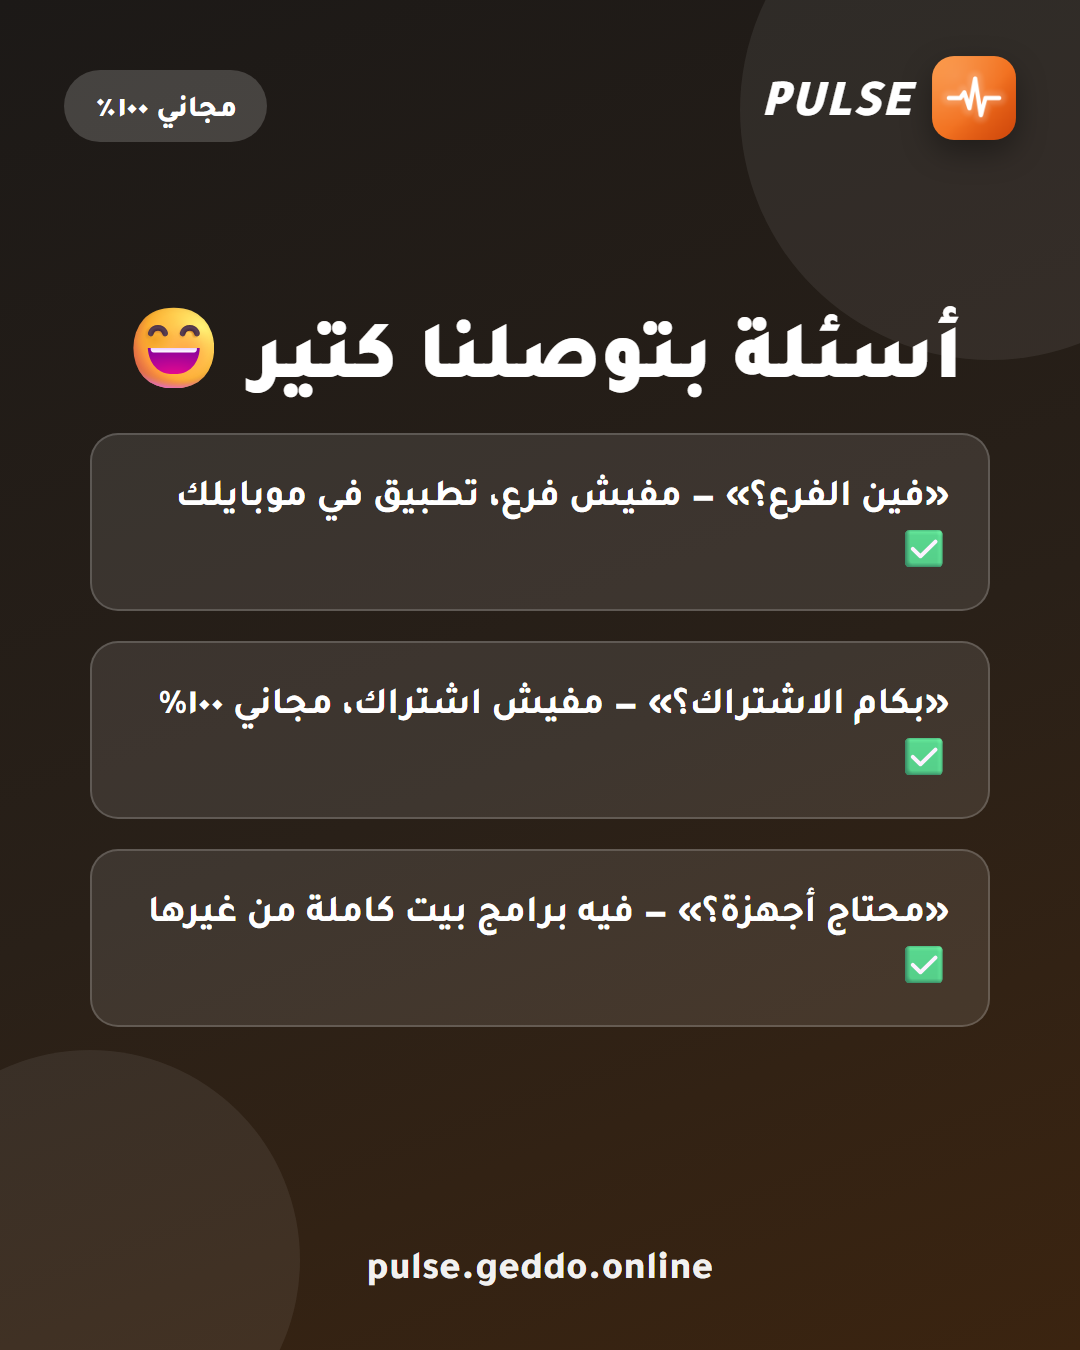
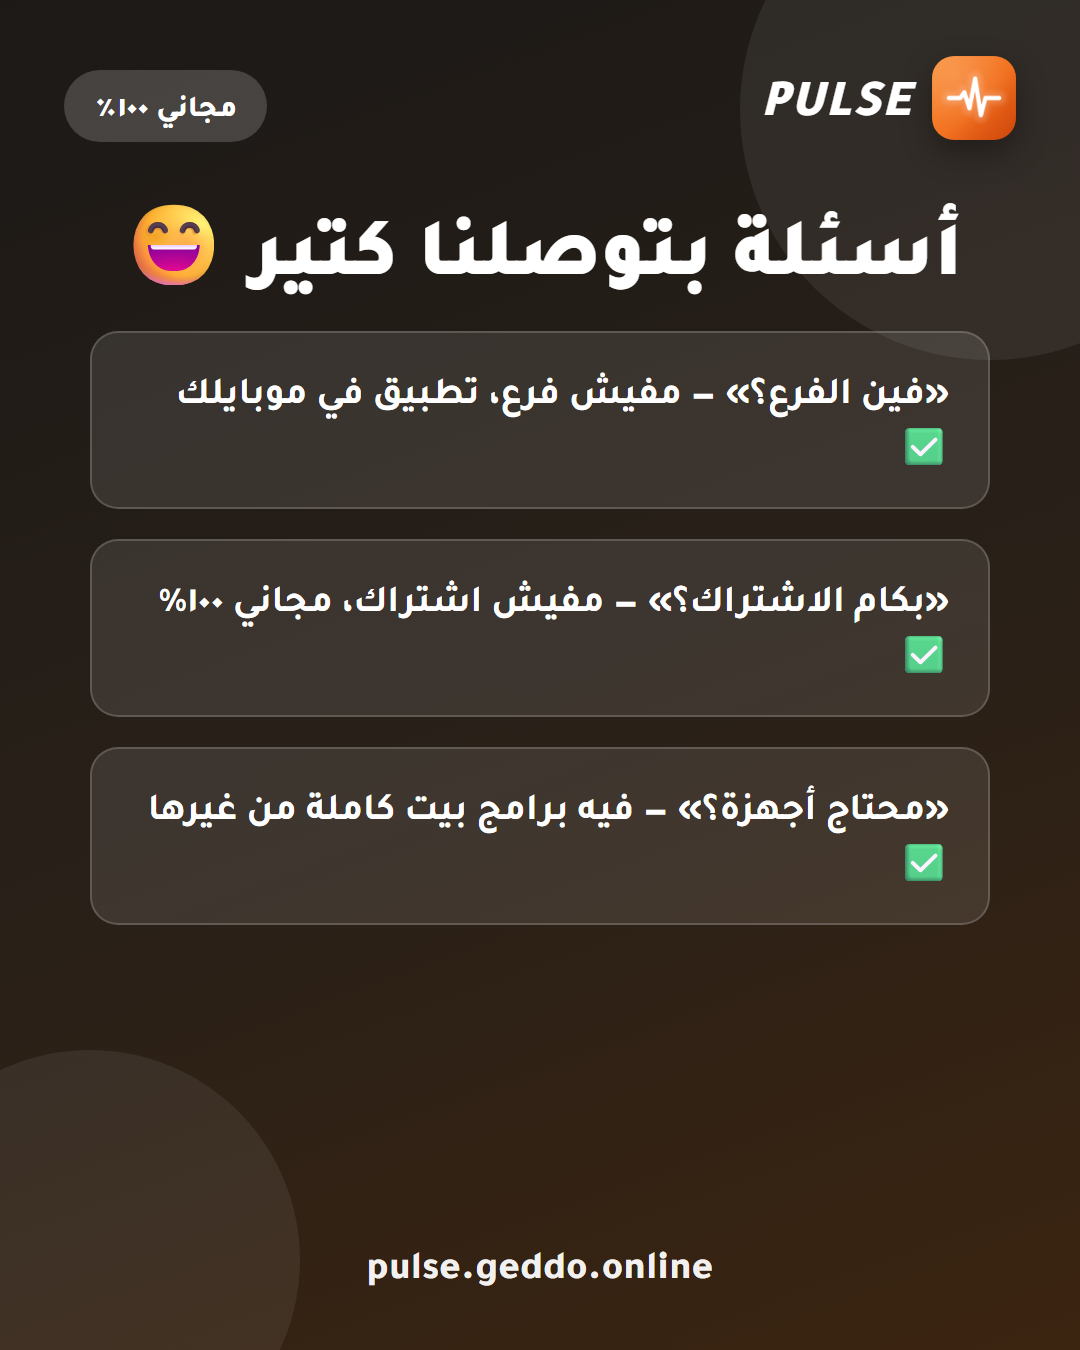
Invite-your-buddy quest + notifications how-to card + one-tap pin
- First-week invite quest: new users (<14d) with zero referrals get
  "Invite a friend" pinned as their first daily-quest slot; tapping it
  opens WhatsApp with their personal referral link. Reward chain was
  already there (freeze both sides + first_referral badge) — the badge
  now lands at referral time instead of waiting for the referrer's
  next workout.
- Getting Started gains step 5: invite via WhatsApp (referral was
  buried in Settings), steps refactored to action handlers.
- marketing-cards/36-enable-notifications.png: 4-step bilingual-arabic
  how-to for enabling push (iPhone A2HS flow), QA card template fixed
  (top-aligned so rows can't collide with the header/footer).
- Admin Moderation feed rows get a one-tap 📌 Pin (7 days) so the card
  post can be pinned without hunting post IDs.

Changed region(s): [[0.1222, 0.1556, 0.9167, 0.7467], [0.1528, 0.3422, 0.6417, 0.4044]]

diff --git a/apps/web/src/components/GettingStarted.tsx b/apps/web/src/components/GettingStarted.tsx
@@ -3,7 +3,8 @@ import { useNavigate } from 'react-router-dom';
 import { useTranslation } from 'react-i18next';
 import { useQuery } from '@tanstack/react-query';
 import { motion } from 'framer-motion';
-import { Check, ChevronRight, ClipboardList, Dumbbell, Trophy, HeartHandshake, X, HelpCircle } from 'lucide-react';
+import { Check, ChevronRight, ClipboardList, Dumbbell, Trophy, HeartHandshake, X, HelpCircle, Gift } from 'lucide-react';
+import { waOpen } from './WaShare';
 import { api } from '../lib/api';
 
 const spring = { type: 'spring', stiffness: 260, damping: 24 } as const;
@@ -20,17 +21,27 @@ export default function GettingStarted() {
   const navigate = useNavigate();
   const [dismissed, setDismissed] = useState(() => localStorage.getItem(DISMISS_KEY) === '1');
 
-  // All four signals are queries other cards already keep warm.
+  // All signals are queries other cards already keep warm.
   const { data: plan } = useQuery({ queryKey: ['assessment'], queryFn: () => api.get('/api/assessment'), staleTime: 5 * 60_000 });
   const { data: progress } = useQuery({ queryKey: ['progress'], queryFn: () => api.get('/api/tracker/progress') });
   const { data: buddies } = useQuery({ queryKey: ['buddies'], queryFn: () => api.get('/api/social/buddies') });
   const { data: challenges } = useQuery({ queryKey: ['challenges'], queryFn: () => api.get('/api/gamification/challenges'), staleTime: 60_000 });
+  const { data: referral } = useQuery({ queryKey: ['referral'], queryFn: () => api.get('/api/me/referral'), staleTime: Infinity });
+
+  // Invite goes straight to WhatsApp with the personal link — referral was
+  // buried in Settings, and friends-who-train-together is the stickiest
+  // configuration this app has.
+  const inviteNow = () => {
+    if (!referral?.link) return navigate('/info');
+    waOpen(t('gs.inviteMsg', { link: referral.link }));
+  };
 
   const steps = [
-    { key: 'plan', icon: ClipboardList, done: plan?.hasPlan === true, to: '/my-plan', label: t('gs.plan') },
-    { key: 'workout', icon: Dumbbell, done: (progress?.totalCompletions ?? 0) > 0, to: '/workout', label: t('gs.workout') },
-    { key: 'challenge', icon: Trophy, done: Array.isArray(challenges) && challenges.some((c: any) => c.joined), to: '/achievements', label: t('gs.challenge') },
-    { key: 'buddy', icon: HeartHandshake, done: Array.isArray(buddies) && buddies.length > 0, to: '/people', label: t('gs.buddy') },
+    { key: 'plan', icon: ClipboardList, done: plan?.hasPlan === true, action: () => navigate('/my-plan'), label: t('gs.plan') },
+    { key: 'workout', icon: Dumbbell, done: (progress?.totalCompletions ?? 0) > 0, action: () => navigate('/workout'), label: t('gs.workout') },
+    { key: 'challenge', icon: Trophy, done: Array.isArray(challenges) && challenges.some((c: any) => c.joined), action: () => navigate('/achievements'), label: t('gs.challenge') },
+    { key: 'buddy', icon: HeartHandshake, done: Array.isArray(buddies) && buddies.length > 0, action: () => navigate('/people'), label: t('gs.buddy') },
+    { key: 'invite', icon: Gift, done: (referral?.invited ?? 0) > 0, action: inviteNow, label: t('gs.invite') },
   ];
   const doneCount = steps.filter((s) => s.done).length;
 
@@ -65,10 +76,10 @@ export default function GettingStarted() {
       </div>
 
       <div className="px-2 pb-2">
-        {steps.map(({ key, icon: Icon, done, to, label }, i) => (
+        {steps.map(({ key, icon: Icon, done, action, label }, i) => (
           <button
             key={key}
-            onClick={() => !done && navigate(to)}
+            onClick={() => !done && action()}
             disabled={done}
             className="flex w-full items-center gap-3 rounded-xl px-2 py-2.5 text-start transition active:bg-gray-50"
           >

diff --git a/apps/web/src/components/DailyQuests.tsx b/apps/web/src/components/DailyQuests.tsx
@@ -6,6 +6,7 @@ import { CurlAnim } from './TrainingAnim';
 import { WaterAnim, MealAnim, FlameAnim } from './MicroAnims';
 import { api } from '../lib/api';
 import { toast } from '../lib/toast';
+import { waOpen } from './WaShare';
 import { celebrateFeedback } from '../lib/haptics';
 
 const spring = { type: 'spring', stiffness: 260, damping: 24 } as const;
@@ -50,6 +51,9 @@ export default function DailyQuests() {
     queryFn: () => api.get('/api/daily/quests'),
     staleTime: 60_000,
   });
+
+  const { data: referral } = useQuery({ queryKey: ['referral'], queryFn: () => api.get('/api/me/referral'), staleTime: Infinity });
+  const inviteFriend = () => referral?.link && waOpen(t('gs.inviteMsg', { link: referral.link }));
 
   const claim = useMutation({
     mutationFn: () => api.post('/api/daily/quests/claim'),
@@ -114,9 +118,11 @@ export default function DailyQuests() {
               whileInView={{ opacity: 1, y: 0 }}
               viewport={{ once: true }}
               transition={{ ...spring, delay: 0.06 * i }}
+              // The invite quest is actionable in place: tap → WhatsApp with the link.
+              onClick={() => !q.done && q.key === 'invite' && inviteFriend()}
               className={`flex min-w-0 flex-col items-center rounded-xl px-1.5 py-2.5 text-center ${
                 q.done ? 'bg-emerald-50' : 'bg-gray-50'
-              }`}
+              } ${q.key === 'invite' && !q.done ? 'cursor-pointer ring-1 ring-orange-300/60' : ''}`}
             >
               <span
                 className={`flex h-9 w-9 items-center justify-center rounded-xl text-base ${

diff --git a/apps/web/src/pages/admin/AdminModeration.tsx b/apps/web/src/pages/admin/AdminModeration.tsx
@@ -46,6 +46,11 @@ export default function AdminModeration() {
     queryFn: () => api.get(`/api/admin/moderation/dm-threads/${openThread}/messages`),
     enabled: Boolean(openThread),
   });
+  const pin = useMutation({
+    mutationFn: (postId: string) => api.post('/api/admin/pinned', { postId, days: 7 }),
+    onSuccess: () => toast('Pinned for 7 days 📌', 'success'),
+    onError: (e: any) => toast(e?.message ?? 'Pin failed', 'error'),
+  });
   const resolve = useMutation({
     mutationFn: (rid: string) => api.post(`/api/admin/moderation/reports/${rid}/resolve`, {}),
     onSuccess: () => { qc.invalidateQueries({ queryKey: ['mod-reports'] }); toast('Resolved', 'success'); },
@@ -201,6 +206,14 @@ export default function AdminModeration() {
                   {(p.text || p.textAr) && <p className="mt-1 break-words text-sm">{p.textAr ?? p.text}</p>}
                   {p.mediaType && <p className="mt-0.5 text-[11px] text-gray-400">[{p.mediaType} attached]</p>}
                 </div>
+                <button
+                  onClick={() => pin.mutate(p.id)}
+                  aria-label="Pin post"
+                  className="shrink-0 rounded-lg p-1.5 text-amber-500 hover:bg-amber-50"
+                  title="Pin to the top of everyone's feed for 7 days"
+                >
+                  📌
+                </button>
                 <button onClick={() => confirmDel('posts', p.id, 'post')} aria-label="Delete post" className="shrink-0 rounded-lg p-1.5 text-red-500 hover:bg-red-50">
                   <Trash2 size={15} />
                 </button>

diff --git a/apps/api/src/routes/daily.ts b/apps/api/src/routes/daily.ts
@@ -153,9 +153,23 @@ function pickQuests(userId: string, day: string): Quest[] {
   return out;
 }
 
+// First-week special: inviting a friend is the stickiest thing an Egyptian
+// user can do (friends train together). New users who haven't referred anyone
+// yet get this pinned as their first quest slot instead of a random pick.
+const INVITE_QUEST: Quest = {
+  key: 'invite', en: 'Invite a friend to PULSE', ar: 'اعزم صاحبك على PULSE', icon: '🎁', target: 1,
+  progress: (userId) => prisma.user.count({ where: { referredById: userId } }),
+};
+
 dailyRouter.get('/quests', async (req: AuthedRequest, res) => {
   const day = dayString();
-  const picked = pickQuests(req.userId!, day);
+  let picked = pickQuests(req.userId!, day);
+  const me = await prisma.user.findUnique({ where: { id: req.userId! }, select: { createdAt: true } });
+  const firstWeek = me && Date.now() - me.createdAt.getTime() < 14 * 86400000;
+  if (firstWeek) {
+    const invited = await prisma.user.count({ where: { referredById: req.userId! } });
+    if (invited === 0) picked = [INVITE_QUEST, ...picked.slice(0, 2)];
+  }
   const claims = await prisma.questClaim.findMany({ where: { userId: req.userId!, day } });
   const claimed = new Set(claims.map((c) => c.questKey));
 

diff --git a/apps/api/src/routes/auth.ts b/apps/api/src/routes/auth.ts
@@ -33,7 +33,7 @@ authRouter.post('/register', async (req, res) => {
   if (existing) return res.status(409).json({ error: 'Email already registered' });
 
   const referrer = ref
-    ? await prisma.user.findUnique({ where: { referralCode: ref.toUpperCase() }, select: { id: true, firstName: true, streakFreezes: true } })
+    ? await prisma.user.findUnique({ where: { referralCode: ref.toUpperCase() }, select: { id: true, firstName: true, streakFreezes: true, currentStreak: true, level: true } })
     : null;
 
   const user = await prisma.user.create({
@@ -61,6 +61,10 @@ authRouter.post('/register', async (req, res) => {
       url: '/buddies',
       type: 'general',
     });
+    // The referral badge used to wait for the referrer's next workout
+    // (checkBadges only ran from touchStreak) — award it at the moment it's earned.
+    const { checkBadges } = await import('../lib/gamify');
+    checkBadges(referrer.id, referrer.currentStreak, referrer.level).catch(() => {});
   }
 
   const accessToken = await issueTokens(res, user);
